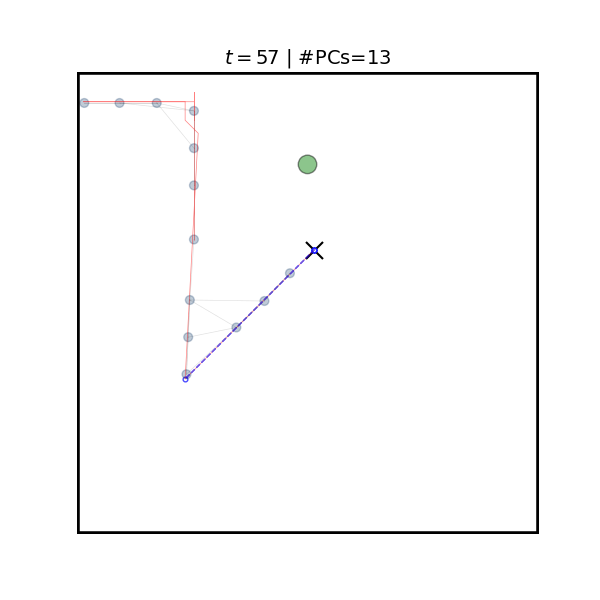
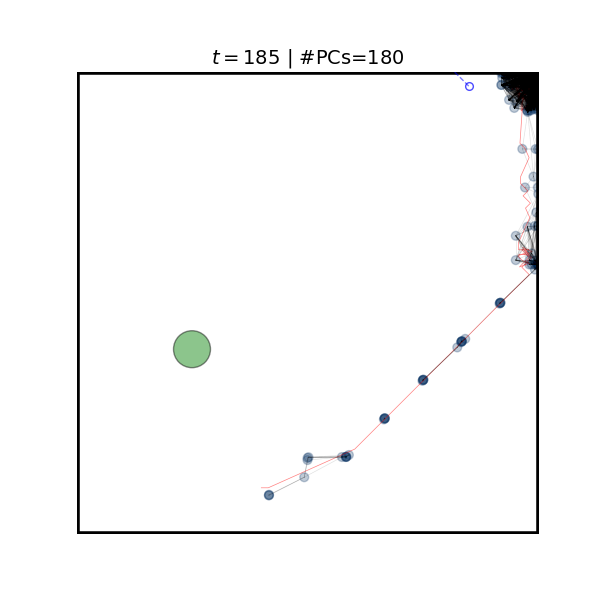
fast update

diff --git a/src/evolution.py b/src/evolution.py
@@ -22,24 +22,26 @@ edit_logger_mod(level=-1, is_debugging=False, is_warning=False)
 logger = setup_logger(name="EVO", level=2,
                       is_debugging=True, is_warning=True)
 
+_bounds = np.array([0., 2., 0., 2.])
 sim_settings = {
-    "bounds": np.array([0., 1., 0., 1.]),
-    "speed": 0.04,
+    "bounds": np.array([0., 2., 0., 2.]),
+    "speed": 0.03,
     "init_position": np.array([0.8, 0.2]),
     "rw_fetching": "deterministic",
     "rw_event": "move reward",
     "rw_position": np.array([0.5, 0.8]),
-    "rw_radius": 0.02,
-    "rw_bounds": np.array([0.2, 0.8, 0.2, 0.8]),
+    "rw_radius": 0.08,
+    "rw_bounds": np.array([_bounds[0]+0.2, _bounds[1]-0.2,
+                           _bounds[2]+0.2, _bounds[3]-0.2]),
     "plot_interval": 8,
     "rendering": False,
     "room": "square",
-    "max_duration": 700,
+    "max_duration": 500,
     "seed": None
 }
 
 agent_settings = {
-    "N": 300,
+    "N": 200,
     "Nj": 13**2,
     "sigma": 0.04,
 }
@@ -238,7 +240,7 @@ FIXED_PARAMETERS = {
 PARAMETERS = {
     'bnd_threshold': lambda: round(random.uniform(0.01, 1.0), 2),
     'bnd_tau': lambda: random.randint(1, 15),
-    'threshold': lambda: round(random.uniform(0.01, 0.4), 2),
+    'threshold': lambda: round(random.uniform(0.01, 0.3), 2),
     'action_delay': lambda : round(random.uniform(1., 10.), 1),
     'max_depth': lambda: random.randint(1, 15),
     'w1': lambda: round(random.uniform(-2.0, 0.0), 2),

diff --git a/src/run_core.py b/src/run_core.py
@@ -61,10 +61,10 @@ sim_settings = {
     "bounds": _bounds,
     "speed": 0.03,
     "init_position": np.array([0.8, 0.2]),
-    "rw_fetching": "probabilistic",
+    "rw_fetching": "deterministic",
     "rw_event": "move reward",
     "rw_position": np.array([0.5, 0.8]),
-    "rw_radius": 0.1,
+    "rw_radius": 0.08,
     "rw_bounds": np.array([_bounds[0]+0.2, _bounds[1]-0.2,
                            _bounds[2]+0.2, _bounds[3]-0.2]),
     "plot_interval": 1,
